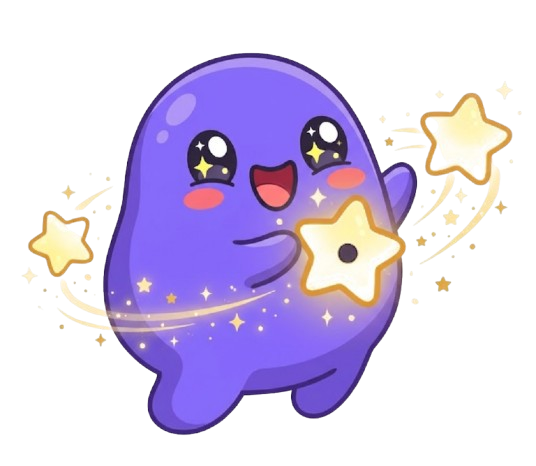
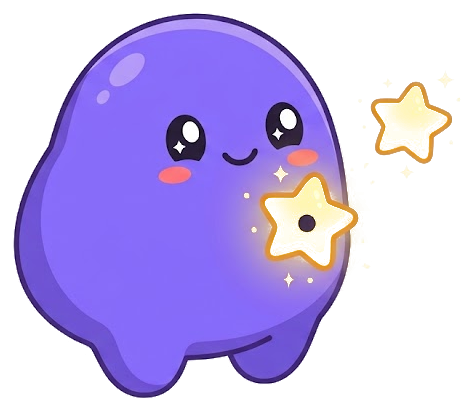
Separa mascote normal (topbar) do mascote feliz (card do Top 1)

diff --git a/client/src/components/LotCard.jsx b/client/src/components/LotCard.jsx
@@ -200,7 +200,7 @@ export default function LotCard({
     </div>
     {item.rank === 1 ? (
       <div className="lot-card-mascot" aria-hidden="true">
-        <img src="/img/loading-mascot.png" alt="" />
+        <img src="/img/mascot-happy.png" alt="" />
       </div>
     ) : null}
     </div>
